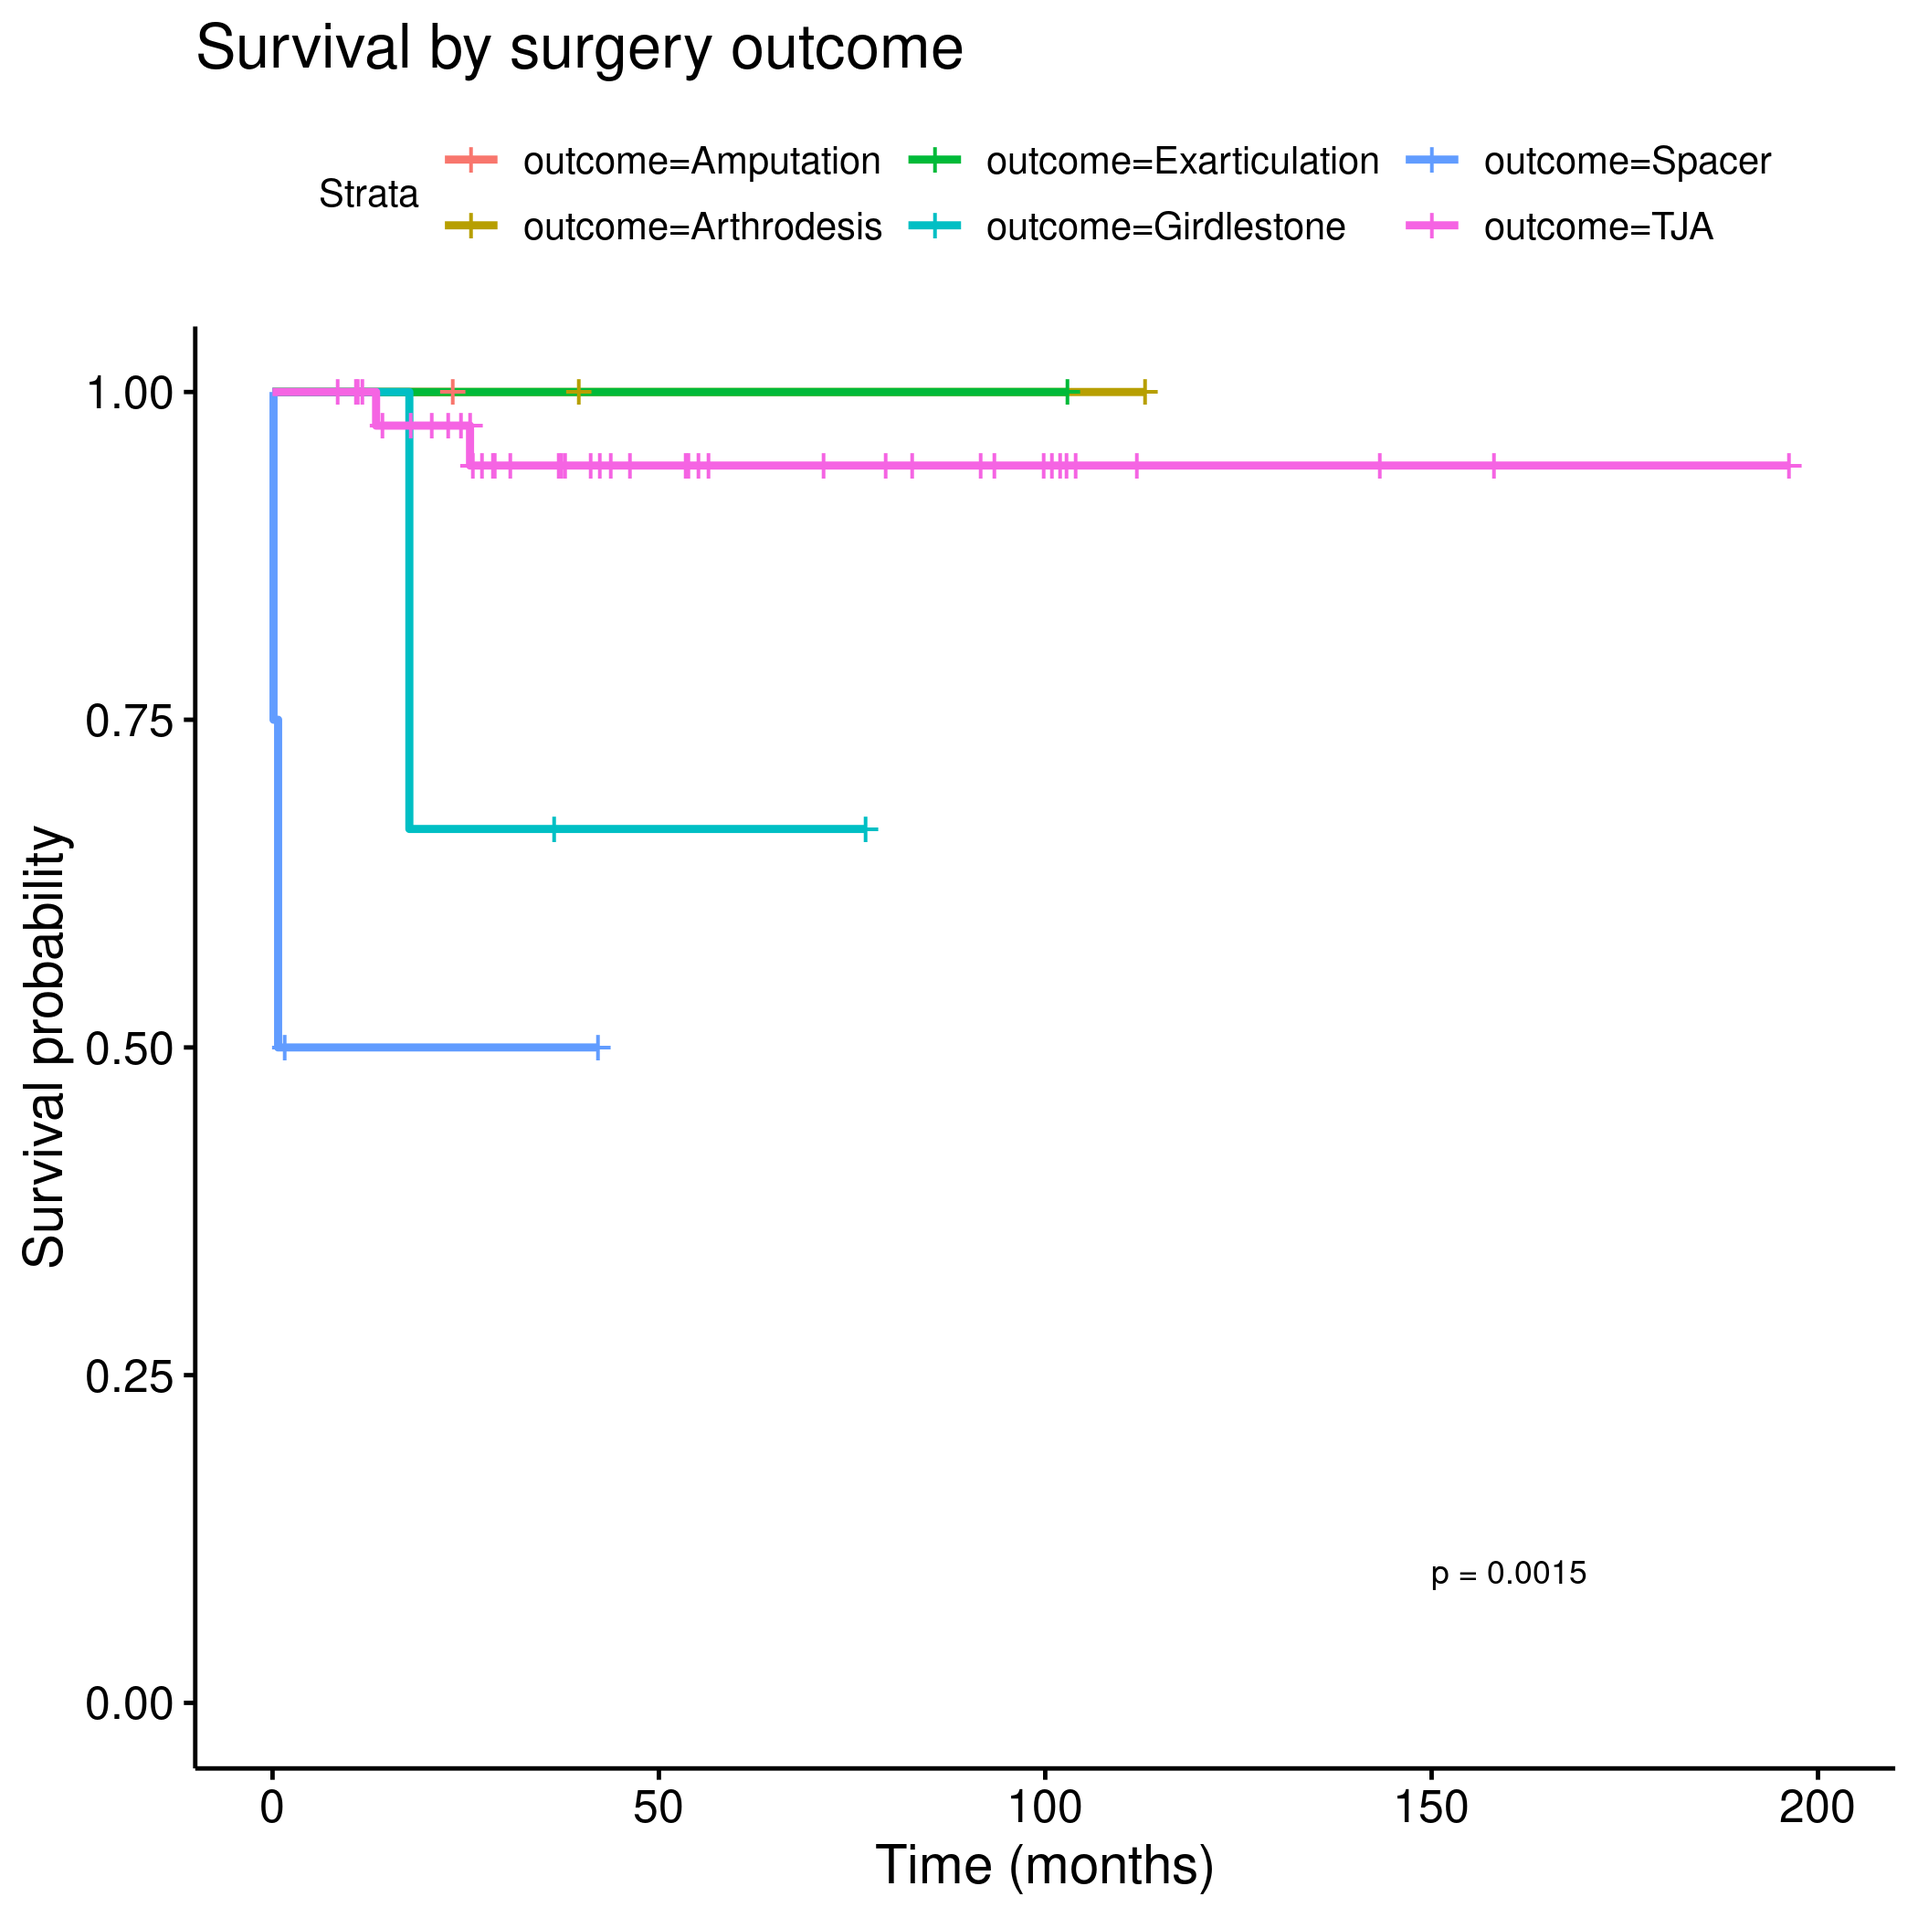
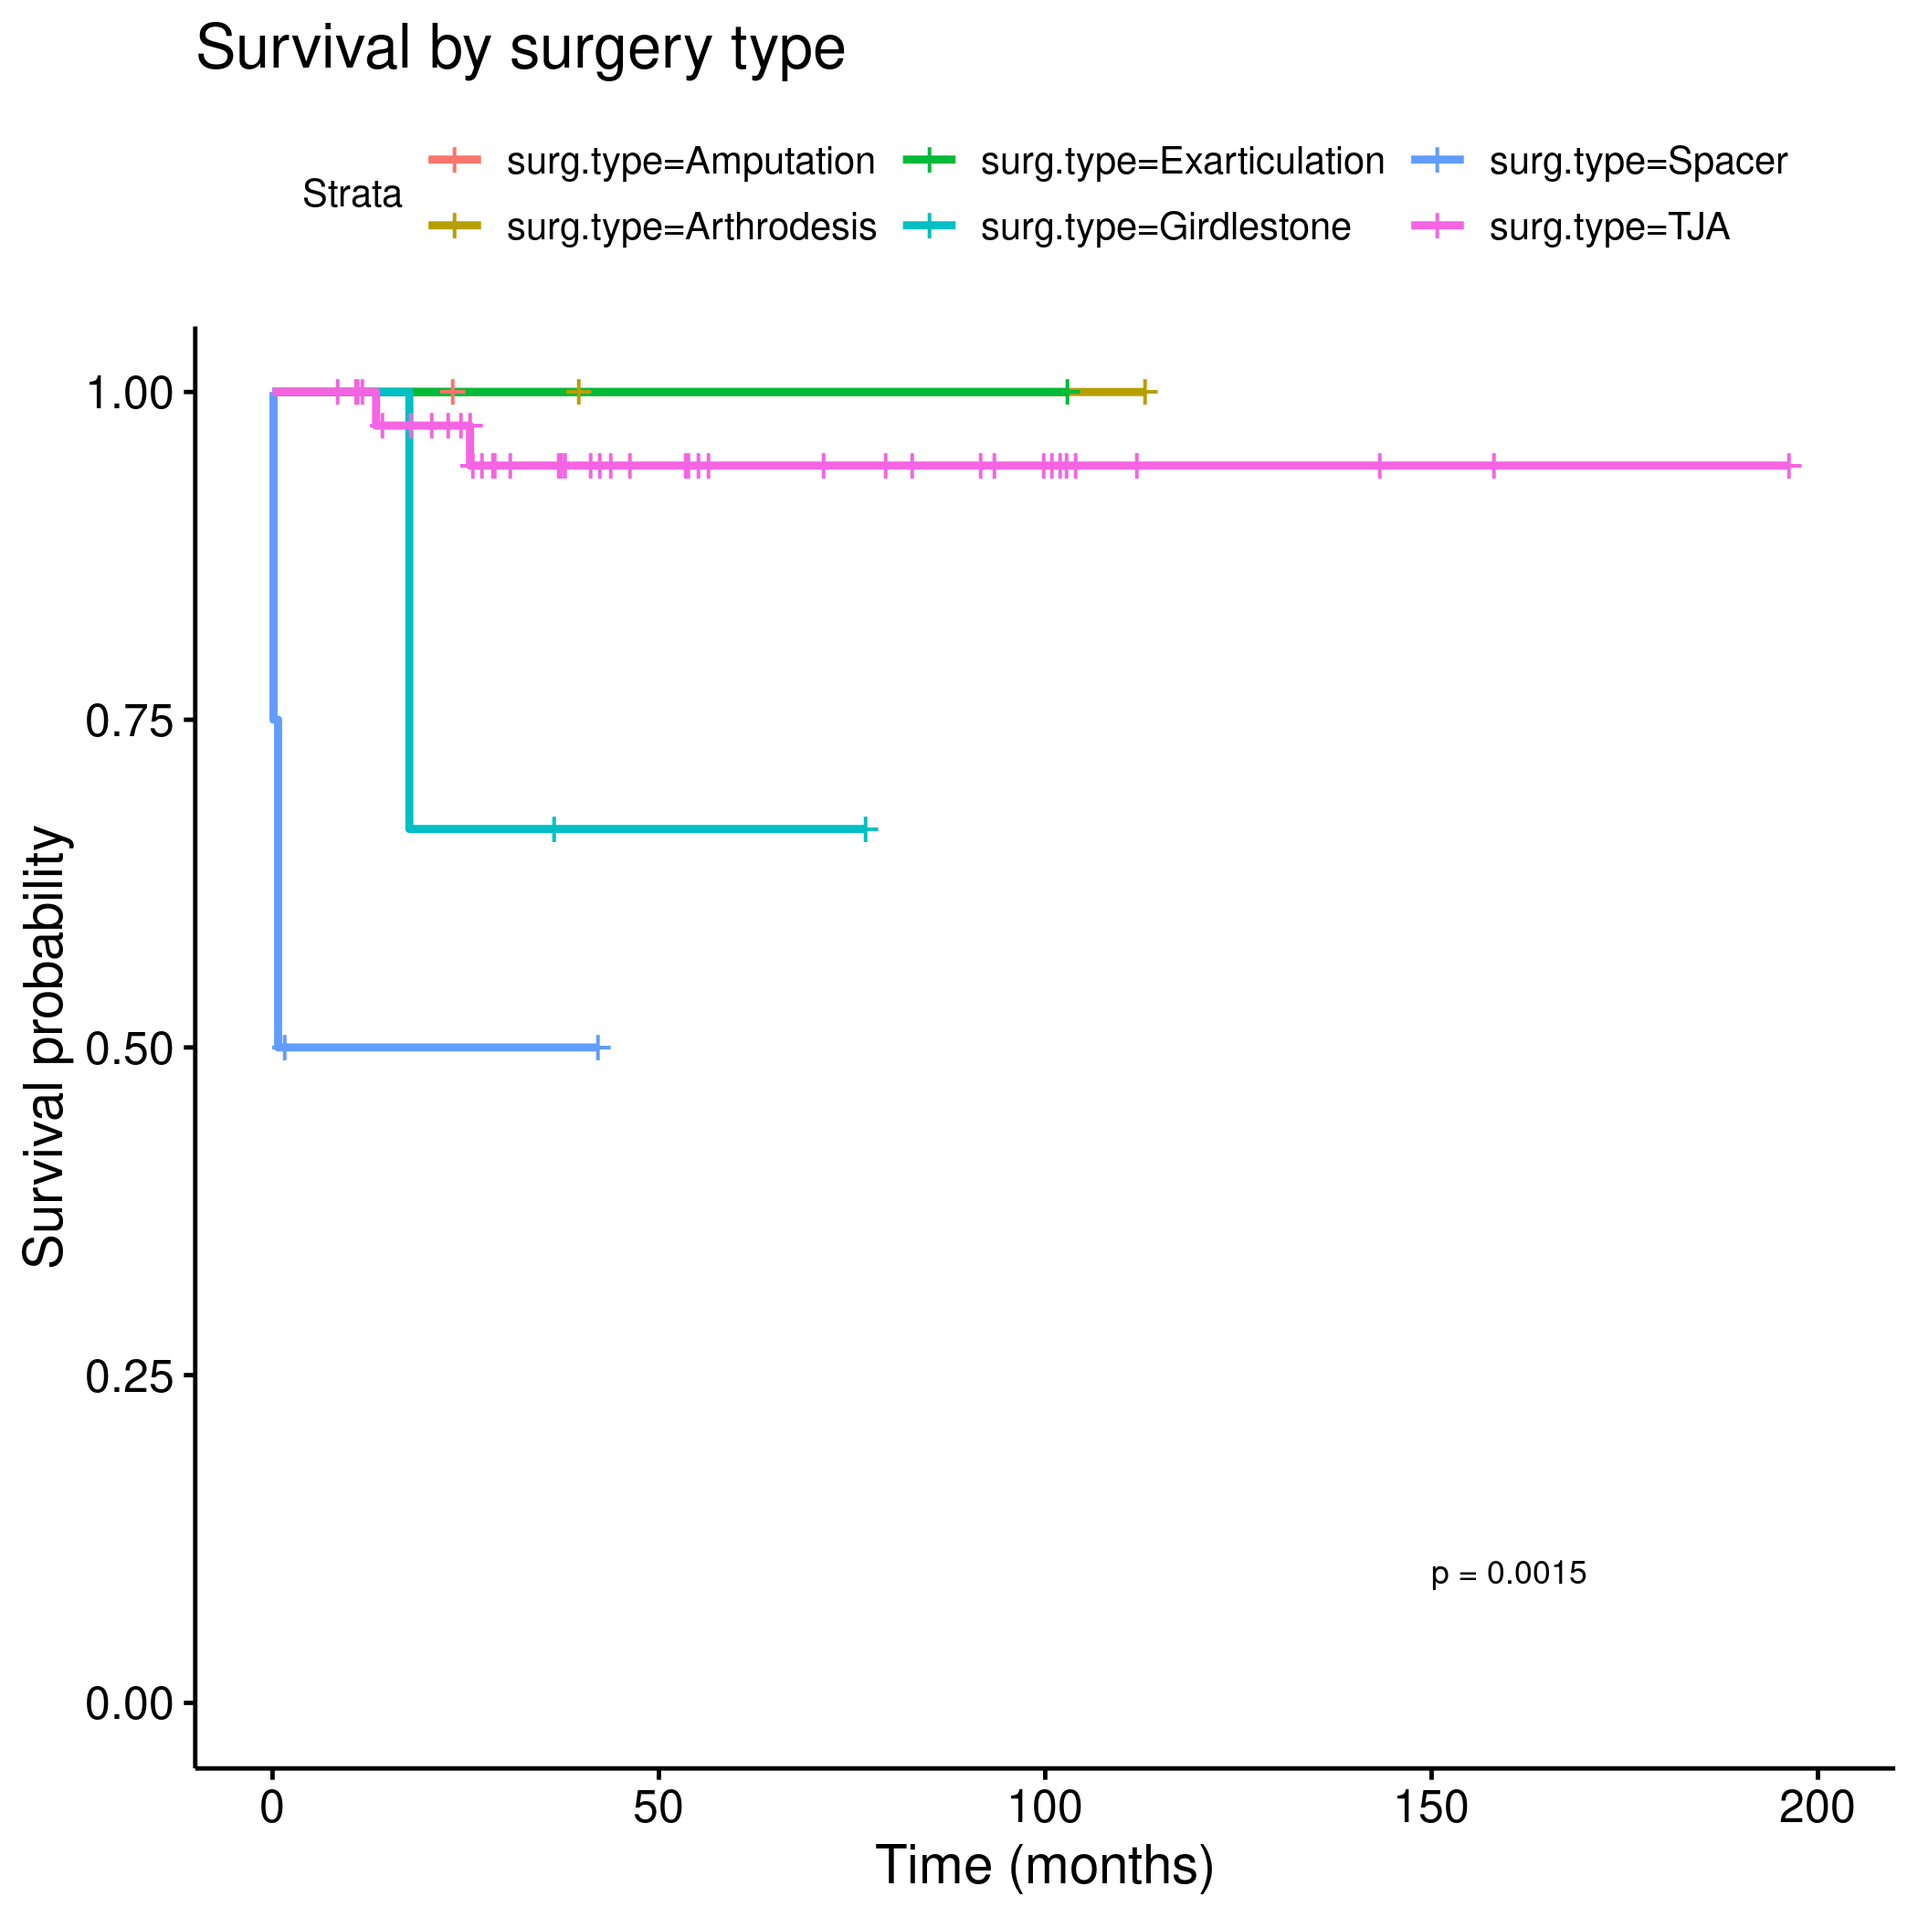
var renamed: outcome -> surg.type

diff --git a/report/analise_dados_LT_2021-v01.md b/report/analise_dados_LT_2021-v01.md
@@ -100,7 +100,7 @@ Fig 2: Mortality confirmed to be caused by PJI.
 |surg.success                      |                  |0.060 |
 |failure                           |84% (67%, 100%)   |      |
 |success                           |100% (100%, 100%) |      |
-|outcome                           |                  |0.002 |
+|surg.type                         |                  |0.002 |
 |Amputation                        |— (—, —)          |      |
 |Arthrodesis                       |100% (100%, 100%) |      |
 |Exarticulation                    |100% (100%, 100%) |      |
